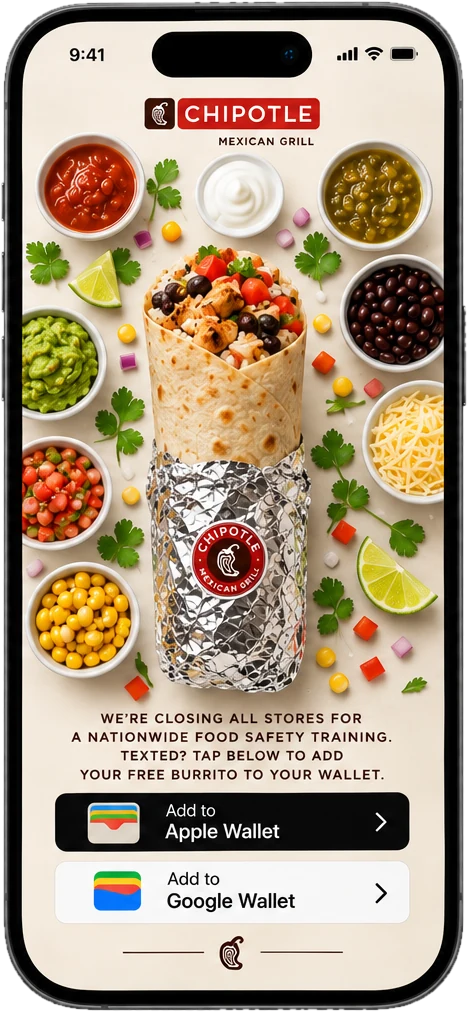
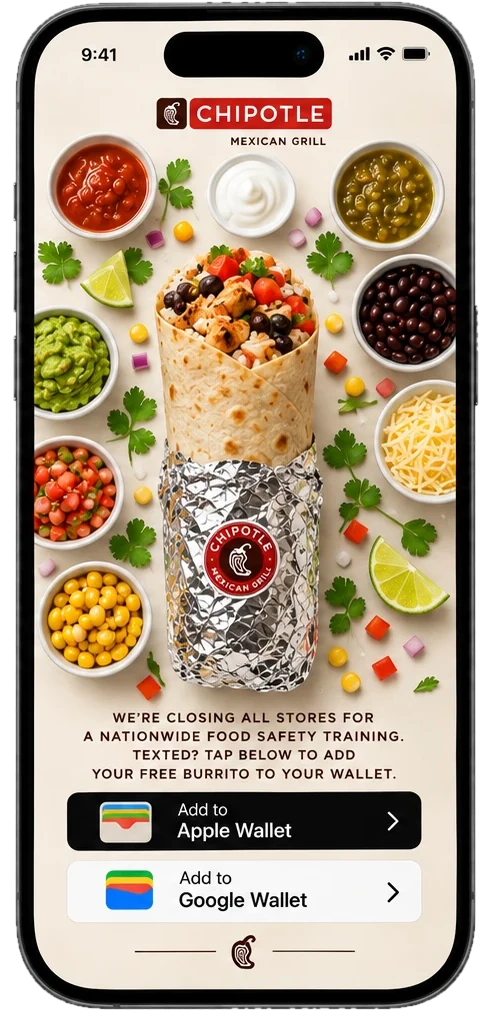
Chipotle case: one phone size throughout, 70px gaps
Hero becomes three separate phones instead of the wide composite. Reveal and
Wallet screens padded to the same canvas as the start screen, so every phone
renders the same height with captions aligned. Scoped to the Chipotle page via
evenPhones.

Claude-Session: https://claude.ai/code/session_01RNX7Ls6pd2w4Kgt8qFrR65

diff --git a/src/app/globals.css b/src/app/globals.css
@@ -558,6 +558,18 @@ h3 { font-weight: 600; font-size: clamp(18px, 1.5vw, 21px); letter-spacing: -0.0
 .cs-media.row .cs-tile { background: var(--white); }
 .cs-media.phones .cs-tile { background: transparent; }
 .cs-embed { aspect-ratio: 16 / 10; background: var(--night); }
+/* One phone size for every mockup on the page, with even gaps. */
+.even-phones { --phone-w: 220px; }
+.even-phones .cs-media.phones { display: flex; flex-wrap: wrap; justify-content: center; column-gap: clamp(20px, 5vw, 70px); row-gap: 28px; }
+.even-phones .cs-media.phones .cs-fig { width: var(--phone-w); }
+.even-phones .cs-media.phones .cs-tile { aspect-ratio: 492 / 1011; }
+.even-phones .cs-media.phones .cs-tile img { height: 100%; object-fit: contain; }
+/* The animation recording has its phone inside a dark frame: crop to the phone so it matches the stills. */
+.even-phones .cs-media.phones .cs-tile:has(video) { border-radius: 34px; }
+.even-phones .cs-media.phones .cs-tile video { height: 100%; object-fit: cover; transform: scale(1.215); }
+@media (max-width: 640px) {
+  .even-phones { --phone-w: min(150px, calc(50% - 10px)); }
+}
 .cs-embed.tall { aspect-ratio: auto; height: min(860px, 90vh); max-width: 460px; justify-self: center; width: 100%; }
 .cs-embed iframe { width: 100%; height: 100%; border: 0; display: block; }
 .cs-embed.scaled { position: relative; }

diff --git a/src/app/work/[slug]/page.tsx b/src/app/work/[slug]/page.tsx
@@ -131,7 +131,7 @@ export default async function CaseStudyPage({ params }: PageProps<"/work/[slug]"
         </div>
       </header>
 
-      <main className="cs" id="top">
+      <main className={`cs${p.evenPhones ? " even-phones" : ""}`} id="top">
         <div className="in">
           <section className="cs-hero on-dark" aria-labelledby="cs-h">
             <div className="cs-hero-top">
@@ -192,10 +192,18 @@ export default async function CaseStudyPage({ params }: PageProps<"/work/[slug]"
             ))}
           </section>
 
-          <div className={`cs-media ${p.heroPair ? "phones" : "wide"} cs-lead`}>
-            <Pic m={p.hero} slug={slug} />
-            {p.heroPair && <Pic m={p.heroPair} slug={slug} />}
-          </div>
+          {p.heroSet ? (
+            <div className="cs-media phones cs-lead">
+              {p.heroSet.map((m) => (
+                <Pic key={m.src} m={m} slug={slug} />
+              ))}
+            </div>
+          ) : (
+            <div className={`cs-media ${p.heroPair ? "phones" : "wide"} cs-lead`}>
+              <Pic m={p.hero} slug={slug} />
+              {p.heroPair && <Pic m={p.heroPair} slug={slug} />}
+            </div>
+          )}
 
           {p.blocks.map((b, i) => (
             <Section key={b.kicker} b={b} i={i} slug={slug} />

diff --git a/src/content/case-pages.ts b/src/content/case-pages.ts
@@ -37,6 +37,10 @@ export type CasePage = {
   links?: { label: string; href: string }[];
   hero: Media;
   heroPair?: Media;
+  /** Several phone screens in place of the single hero image. */
+  heroSet?: Media[];
+  /** Every phone mockup on the page renders at one size with even gaps. */
+  evenPhones?: boolean;
   blocks: Block[];
 };
 
@@ -281,6 +285,12 @@ export const casePages: CasePage[] = [
       result: "5.3 million requests in about five hours, more than double what Chipotle expected, with an estimated 67% redemption rate.",
     },
     hero: { src: "chipotle-flow-phones.webp", alt: "Three phones: the closed-store landing page, the ingredient reveal and the Wallet pass", cap: "Landing page · ingredient reveal · Apple Wallet pass" },
+    heroSet: [
+      { src: "phone-closed.webp", alt: "The closed-store landing page", cap: "Landing page" },
+      { src: "phone-reveal.webp", alt: "The ingredient reveal", cap: "Ingredient reveal" },
+      { src: "phone-wallet.webp", alt: "The Apple Wallet pass", cap: "Apple Wallet pass" },
+    ],
+    evenPhones: true,
     blocks: [
       {
         kicker: "The challenge",
